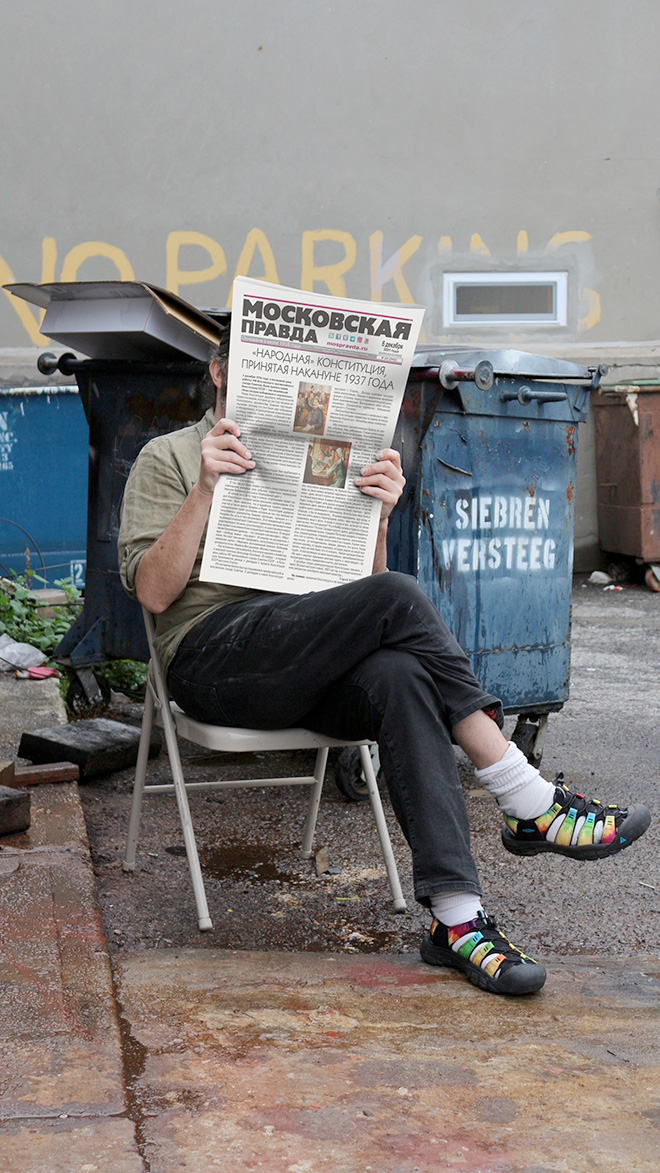
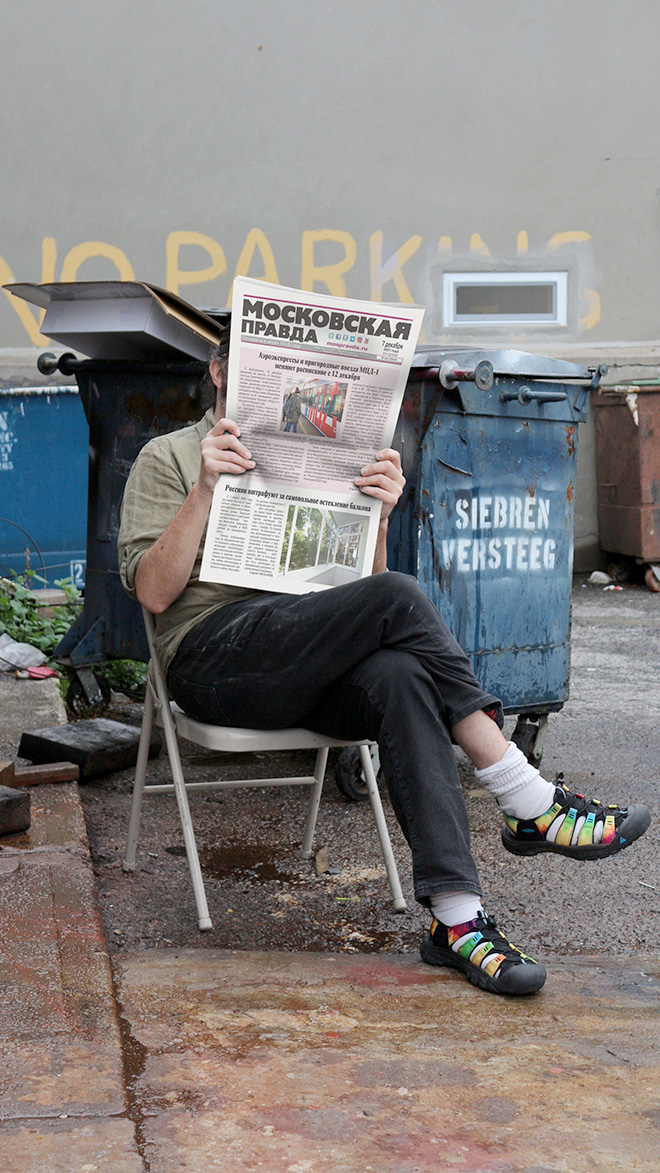
work 32 upd

Changed region(s): [[0.3333, 0.2762, 0.6061, 0.5217]]

diff --git a/index.html b/index.html
@@ -155,7 +155,7 @@
 						<div class="author">Кевин Маккой</div>
 					</li>
 					<li>
-						<a href="#modal-work32" class="js-modal-link"><img src="/assets/images/works/work32.jpg?06122021" alt="Утренняя газета" title="Утренняя газета"></a>
+						<a href="#modal-work32" class="js-modal-link"><img src="/assets/images/works/work32.jpg?07122021" alt="Утренняя газета" title="Утренняя газета"></a>
 						<h3><a href="#modal-work32" class="js-modal-link">Ежедневная правда</a></h3>
 						<div class="author">Сибрен Верстиг</div>
 					</li>
@@ -1515,7 +1515,7 @@
 				<div class="title">Ежедневная правда</div>
 				<div class="authors">Сибрен Верстиг</div>
 				<div class="media">
-					<a href="/assets/images/works/work32_full.jpg?06122021" class="js-lightbox picture"><img src="/assets/images/works/work32.jpg?06122021" alt="Ежедневная правда"></a>
+					<a href="/assets/images/works/work32_full.jpg?07122021" class="js-lightbox picture"><img src="/assets/images/works/work32.jpg?07122021" alt="Ежедневная правда"></a>
 				</div>
 				<div class="credits">
 					<p><span class="line"><span class="label">сайт автора:</span><br><a href="http://www.siebrenversteeg.com/" target="_blank">siebrenversteeg.com</a></span><br><br><!-- <span class="line"><span class="label">работа размещена:</span><br><a href="https://www.artblocks.io/token/120000131" target="_blank">artblocks.io/token/120000131</a></span> --></p>

diff --git a/en/index.html b/en/index.html
@@ -155,7 +155,7 @@
 						<div class="author">Kevin McCoy</div>
 					</li>
 					<li>
-						<a href="#modal-work32" class="js-modal-link"><img src="/assets/images/works/work32.jpg?06122021" alt="Today’s Paper" title="Today’s Paper"></a>
+						<a href="#modal-work32" class="js-modal-link"><img src="/assets/images/works/work32.jpg?07122021" alt="Today’s Paper" title="Today’s Paper"></a>
 						<h3><a href="#modal-work32" class="js-modal-link">Daily Truth</a></h3>
 						<div class="author">Siebren Versteeg</div>
 					</li>
@@ -1511,7 +1511,7 @@
 				<div class="title">Daily Truth</div>
 				<div class="authors">Siebren Versteeg</div>
 				<div class="media">
-					<a href="/assets/images/works/work32_full.jpg?06122021" class="js-lightbox picture"><img src="/assets/images/works/work32.jpg?06122021" alt="Daily Truth"></a>
+					<a href="/assets/images/works/work32_full.jpg?07122021" class="js-lightbox picture"><img src="/assets/images/works/work32.jpg?07122021" alt="Daily Truth"></a>
 				</div>
 				<div class="credits">
 					<p><span class="line"><span class="label">author site:</span><br><a href="http://www.siebrenversteeg.com/" target="_blank">siebrenversteeg.com</a></span><br><br><!-- <span class="line"><span class="label">work placed:</span><br><a href="https://www.artblocks.io/token/120000131" target="_blank">artblocks.io/token/120000131</a></span> --></p>
